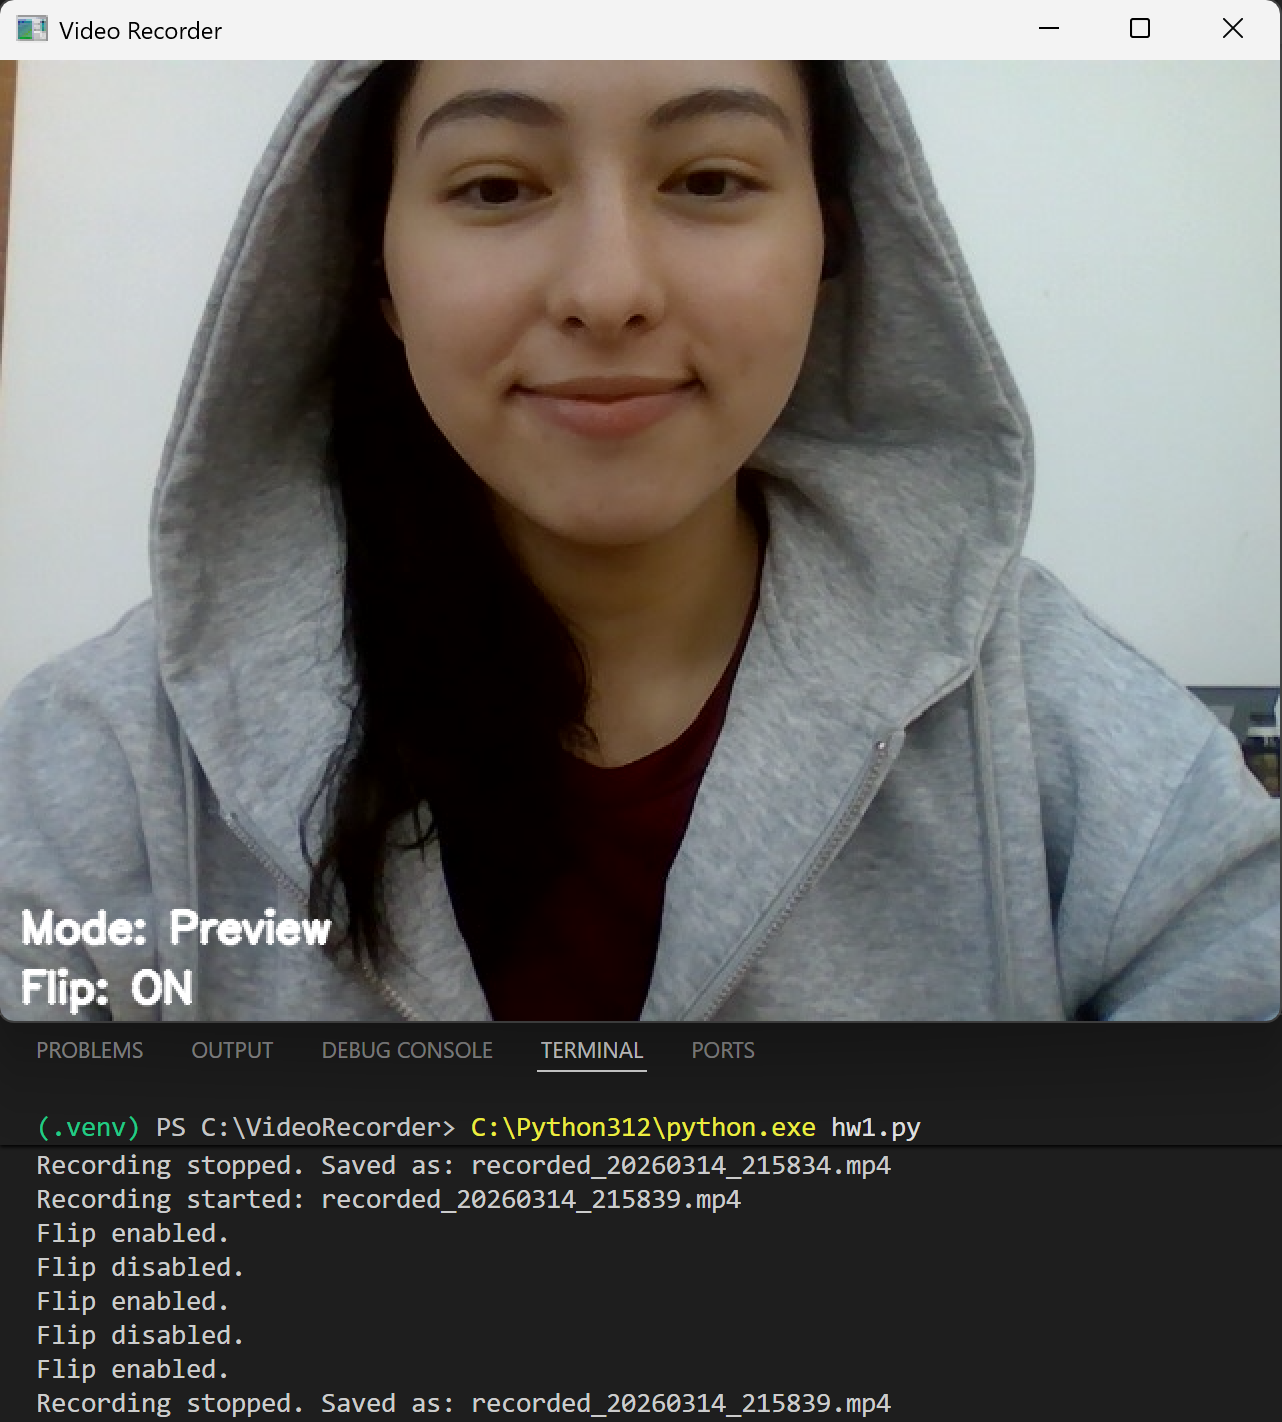
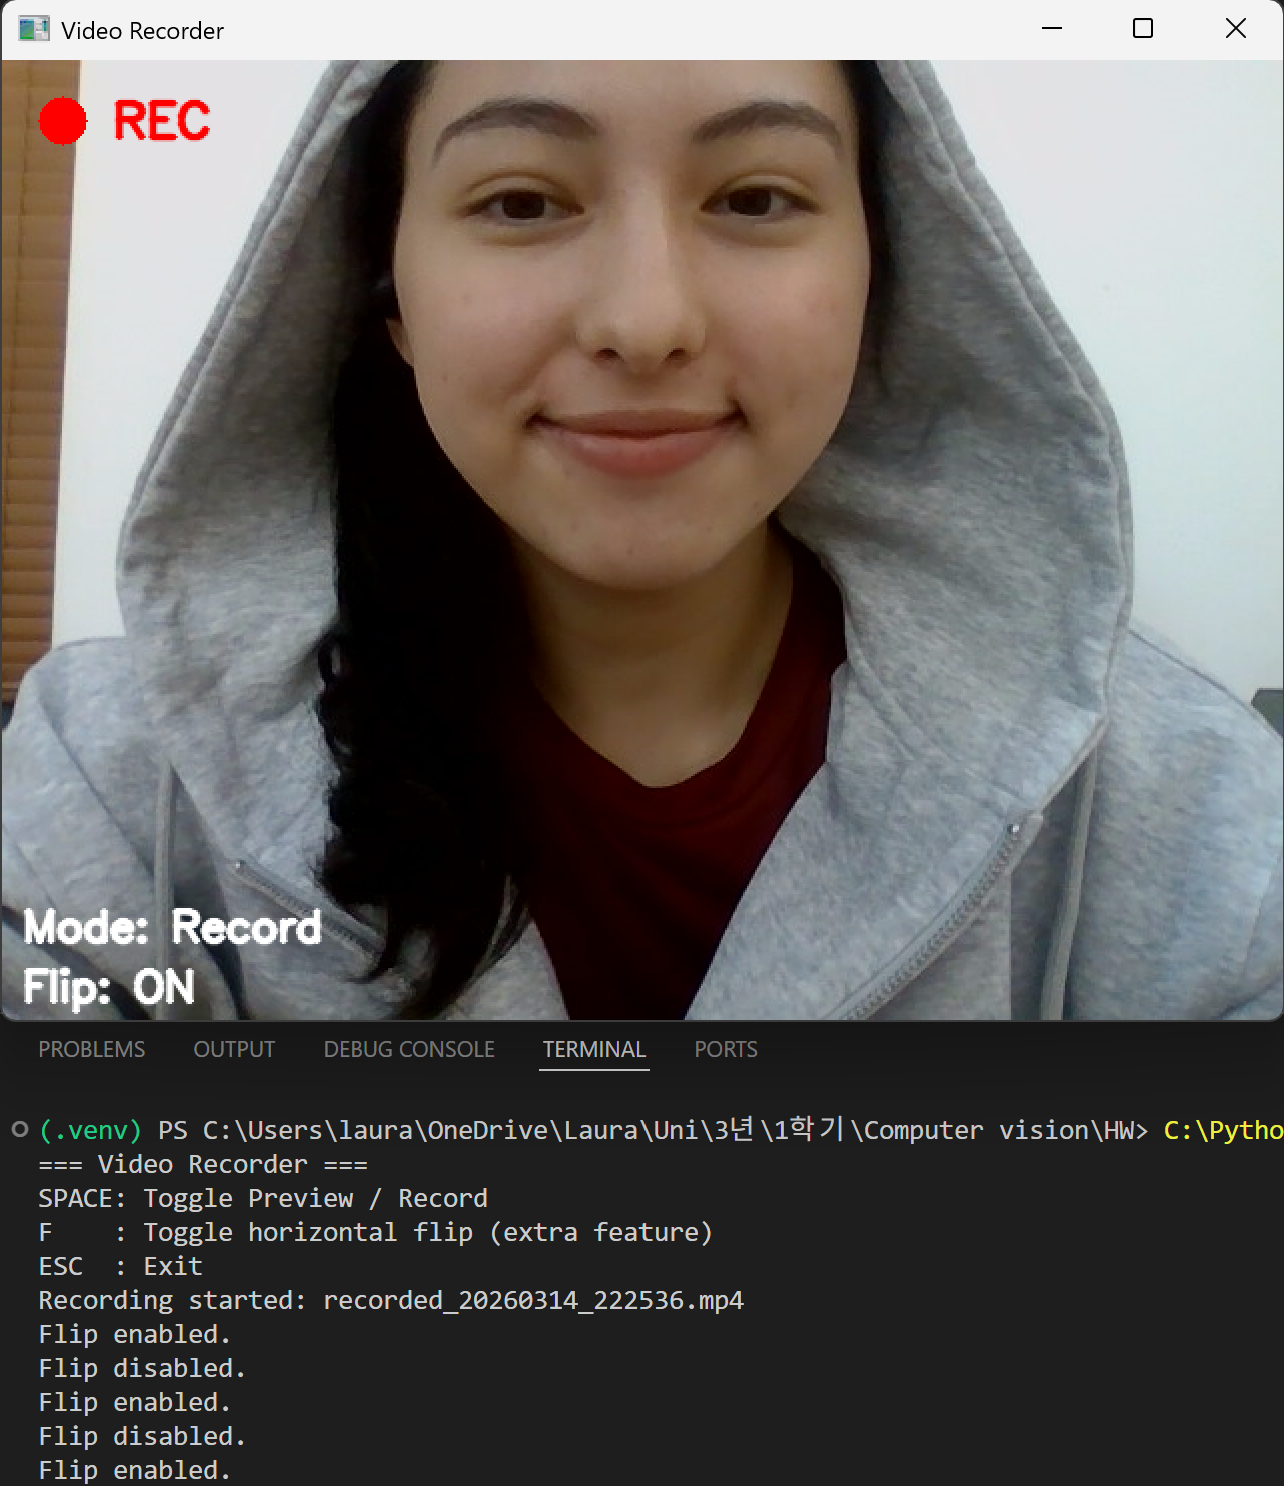
Initial commit: webcam recorder with preview and recording modes

diff --git a/README.md b/README.md
@@ -1,133 +1,98 @@
-# CamRec - WebCam Video Recorder
+# CamRec - Webcam Video Recorder
 
-A lightweight, easy-to-use video recorder application built with Python and OpenCV. Capture your webcam stream in real-time with preview and recording modes.
+A simple and easy-to-use video recorder application built with Python and OpenCV. Record your webcam stream in real-time with a preview mode and recording mode.
+
+---
 
 
-## Demo & Examples
 
-### Application Interface
+## Quick Start
 
-![Video Recorder Application](vid%20recorder%20img.png)
-
-### Sample Recording
-
-[Download sample video: recorded_20260314_215839.mp4](recorded_20260314_215839.mp4)
-
-Or view with HTML5 player:
-
-```html
-<video width="320" height="240" controls>
-  <source src="recorded_20260314_215839.mp4" type="video/mp4">
-  Your browser does not support the video tag.
-</video>
-```
-
-## Features
-
-### Core Features (Required)
-- **Real-time Camera Display**: View live webcam stream using OpenCV's `cv.VideoCapture`
-- **Mode Toggle**: Switch between Preview and Record modes
-- **Video Recording**: Save webcam stream as MP4 video files with automatic timestamped filenames
-- **Recording Indicator**: Visual red circle indicator displayed during recording
-- **Keyboard Controls**: 
-  - `SPACE` - Toggle between Preview and Record modes
-  - `ESC` - Exit application
-
-### Additional Features
-- **Horizontal Flip**: Press `F` to flip the video horizontally (useful for mirror-like preview)
-- **Automatic Naming**: Video files are automatically named with timestamps (format: `recorded_YYYYMMDD_HHMMSS.mp4`)
-- **Codec Configuration**: Uses MP4v codec for broad compatibility
-- **Status Display**: On-screen display shows current mode and flip status
-
-## Requirements
-
-- Python 3.6+
-- OpenCV (cv2)
-
-## Installation
-
-### 1. Install OpenCV
-
+### Install Requirements
 ```bash
 pip install opencv-python
 ```
 
-### 2. Clone or Download This Repository
-
-```bash
-git clone https://github.com/yourusername/camrec.git
-cd camrec
-```
-
-## Usage
-
-Run the application:
-
+### Run the Program
 ```bash
 python hw1.py
 ```
 
-### Keyboard Controls
+---
 
-| Key | Action |
-|-----|--------|
-| `SPACE` | Toggle between Preview and Record modes |
-| `F` | Toggle horizontal flip on/off |
-| `ESC` | Exit the application |
+## Features
 
-### How It Works
+### Required Features
+✅ **Live Camera Display** - See your webcam feed in real-time using `cv.VideoCapture`  
+✅ **Video Recording** - Save your webcam as MP4 video files using `cv.VideoWriter`  
+✅ **Preview & Record Modes** - Switch between viewing and recording  
+✅ **Recording Indicator** - Red circle appears when recording  
+✅ **Simple Controls** - Space to toggle mode, ESC to exit  
 
-1. **Start the program** - Camera feed displays in a window
-2. **Preview Mode** - Default mode where you see the live camera feed
-3. **Record Mode** - Press `SPACE` to start recording (red REC indicator appears)
-4. **Stop Recording** - Press `SPACE` again to stop and save the video
-5. **Exit** - Press `ESC` to close the application
+### Additional Features
+✨ **Horizontal Flip** - Press `F` to mirror the video  
+✨ **Auto-Named Files** - Videos saved as `recorded_YYYYMMDD_HHMMSS.mp4`  
+✨ **Custom Settings** - Adjustable FPS and codec options  
 
-## Output
+---
 
-Recorded video files are saved in the same directory with timestamped filenames:
-- Example: `recorded_20260314_143022.mp4`
+## How to Use
 
+| Key | Function |
+|-----|----------|
+| **SPACE** | Switch between Preview and Record modes |
+| **F** | Flip video horizontally |
+| **ESC** | Exit the program |
 
-## Technical Specifications
+**Simple workflow:**
+1. Start the program → camera appears
+2. Press SPACE → red circle shows recording started
+3. Press SPACE → video is saved
+4. Press ESC → exit
 
-- **Video Codec**: MP4v (compatible with most media players)
-- **Default FPS**: 20 frames per second
-- **Resolution**: Matches your camera's native resolution
-- **Format**: MP4 container
+---
 
+## Demo
 
+### Screenshot
+<p align="center">
+  <img src="vid%20recorder%20img.png" alt="Video Recorder Application" width="400">
+</p>
 
-## Troubleshooting
+### Sample Video
+<p align="center">
+  <video width="400" controls>
+    <source src="recorded_20260314_215839.mp4" type="video/mp4">
+    Your browser does not support the video tag. <a href="recorded_20260314_215839.mp4">Download video</a>
+  </video>
+</p>
 
-### Camera Not Opening
-- Ensure your webcam is connected and working
-- Check if another application is using your camera
-- Try a different camera index (modify `cv.VideoCapture(0)` to `cv.VideoCapture(1)`)
+---
 
-### Video File Not Created
-- Check that you have write permissions in the application directory
-- Ensure sufficient disk space available
-- Try restarting the application
+## Technical Details
 
-### Poor Video Quality
-- Ensure adequate lighting for the camera
-- Some webcams require a moment to auto-focus
-- Adjust FPS in the code if needed (modify `fps` parameter in `create_writer()`)
+| Setting | Value |
+|---------|-------|
+| **Codec** | MP4v |
+| **FPS** | 20 frames per second |
+| **Format** | MP4 |
+| **Resolution** | Native camera resolution |
 
-## Project Structure
+---
+
+## File Structure
 
 ```
-camrec/
-├── hw1.py          # Main application
-├── README.md       # This file
-└── recorded_*.mp4  # Generated video files
+CamRec/
+├── hw1.py                    # Main program
+├── README.md                 # This file
+└── recorded_*.mp4            # Your saved videos
 ```
+
+---
 
 ## License
 
-This project is open source and available for educational purposes.
 
-## Author
 Laura Morales
-Created as a Computer Vision course assignment.
+Open source for educational purposes.
